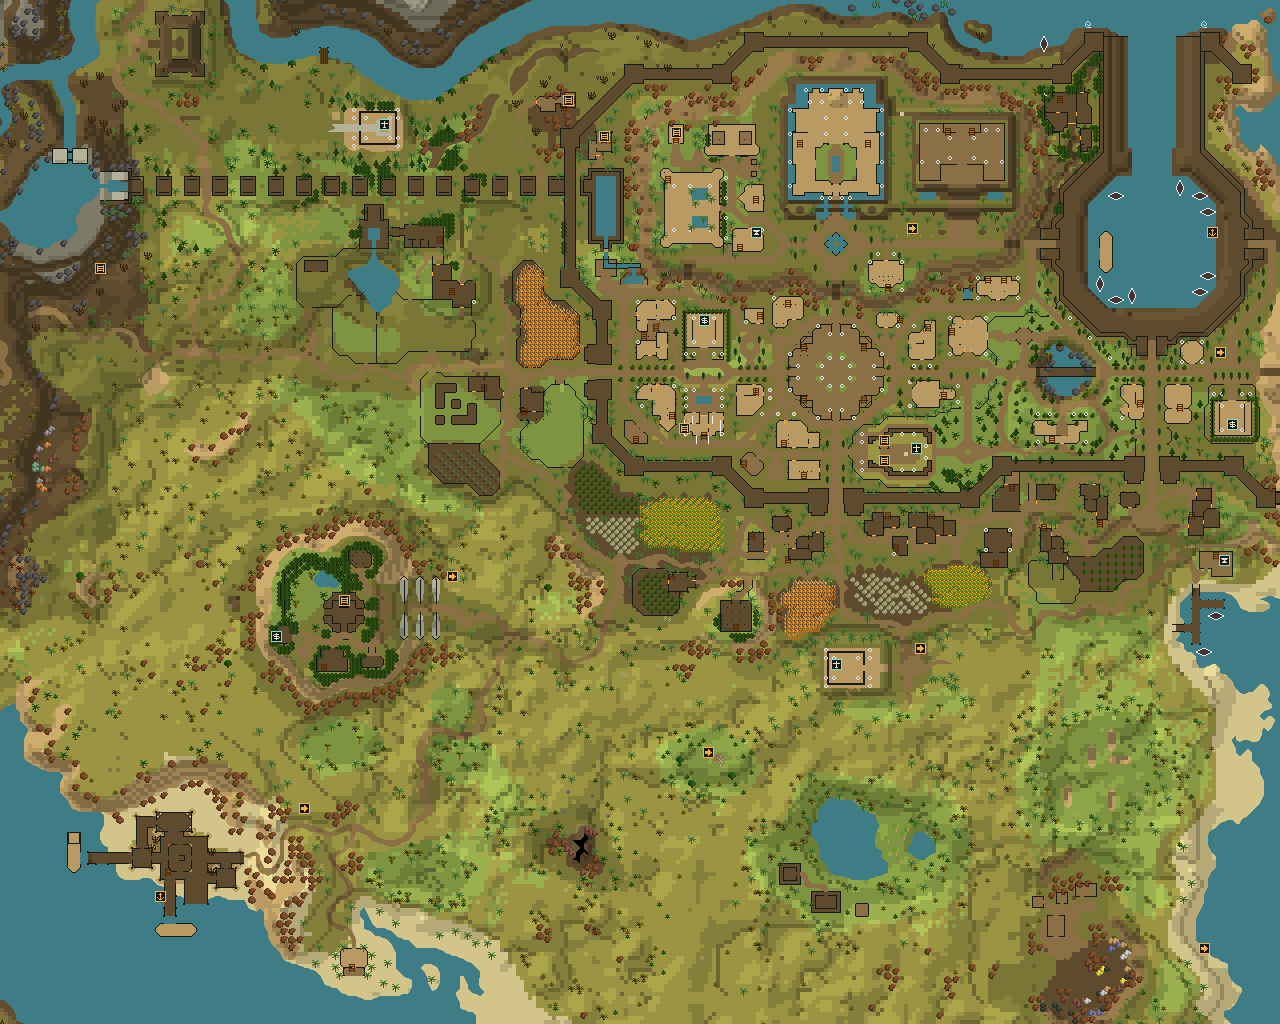
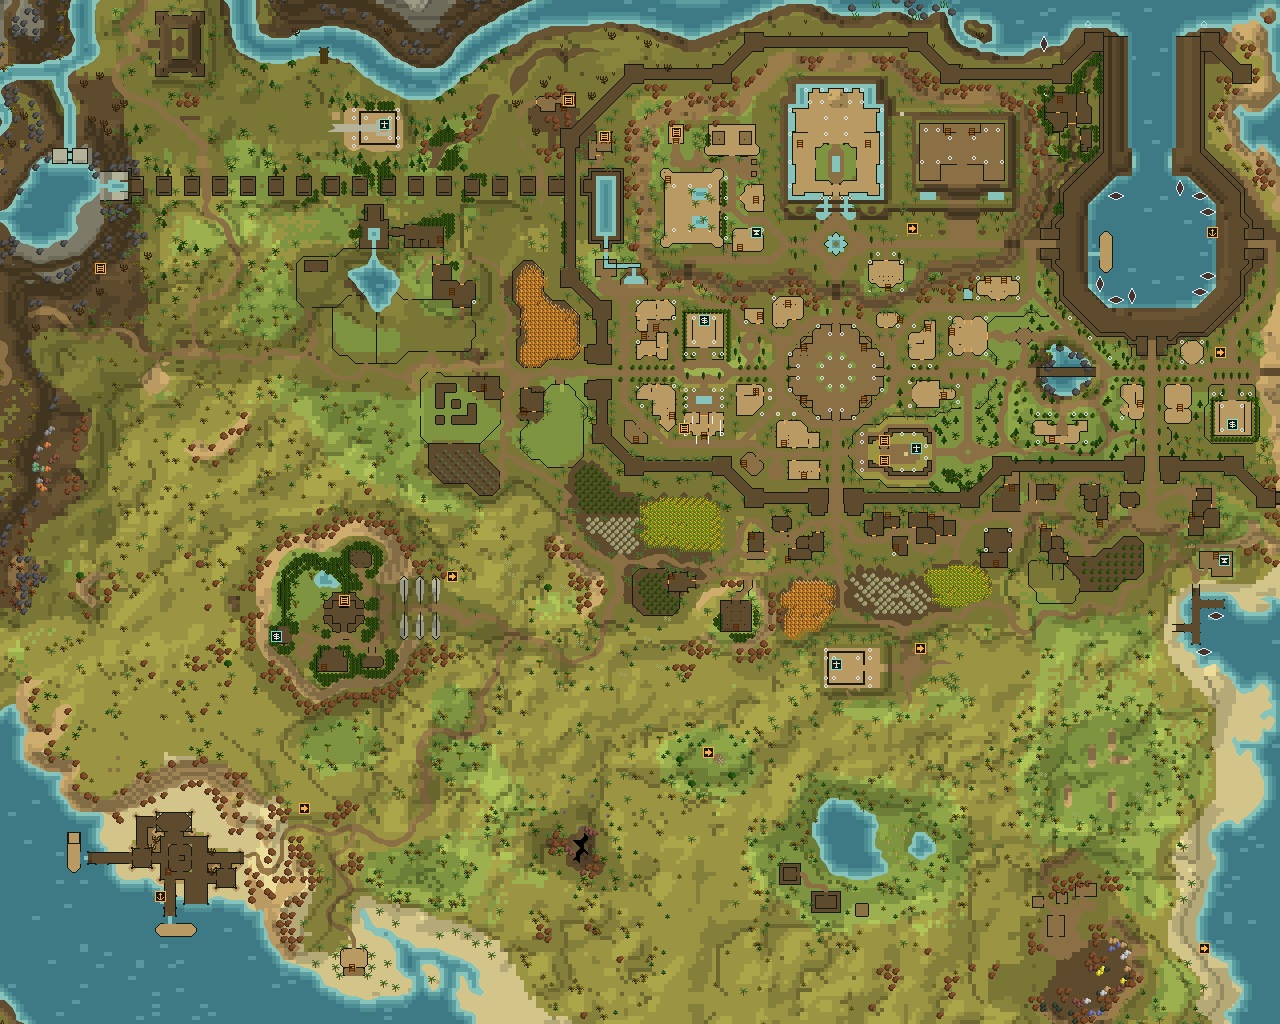
Band tactical water by distance to the shore
Terrain can now report RuneLite's overlay colour for any loaded tile
(the fork's overlay colour code moved verbatim into a method, so
standard stays byte-identical to runelite). The tactical style uses it
to draw a foam line, two shallow bands and open water with sparse wave
dashes.

diff --git a/src/main/java/mapstyle/StyledMapImageDumper.java b/src/main/java/mapstyle/StyledMapImageDumper.java
@@ -162,7 +162,7 @@ public class StyledMapImageDumper
 	{
 		this.store = store;
 		this.regionLoader = regionLoader;
-		this.terrain = new Terrain(regionLoader); // map-style
+		this.terrain = new Terrain(regionLoader, id -> overlayRgb(findOverlay(id))); // map-style
 		this.areas = new AreaManager(store);
 		this.sprites = new SpriteManager(store);
 		this.fonts = new FontManager(store);
@@ -498,41 +498,7 @@ public class StyledMapImageDumper
 									rotation = r.getOverlayRotation(z, convert(xi), convert(yi));
 
 									OverlayDefinition overlayDefinition = findOverlay(overlayId - 1);
-									int overlayTexture = overlayDefinition.getTexture();
-									int hsl;
-
-									if (overlayTexture >= 0)
-									{
-										hsl = rsTextureProvider.getAverageTextureRGB(overlayTexture);
-										//Repack it into full hsl
-										hsl = packHslFull(JagexColor.unpackHue((short) hsl) * 4, JagexColor.unpackSaturation((short) hsl) * 32, JagexColor.unpackLuminance((short) hsl) * 2);
-									}
-									else if (overlayDefinition.getRgbColor() == 0xFF_00FF)
-									{
-										hsl = -2;
-									}
-									else
-									{
-										// randomness added here
-										//Overlay Hsl
-										hsl = packHslFull(overlayDefinition.getHue(), overlayDefinition.getSaturation(), overlayDefinition.getLightness());
-									}
-
-									if (hsl != -2)
-									{
-										hsl = adjustHSLListness0(hsl);
-										overlayRgb = JagexColor.getRGBFull(hsl);
-									}
-
-									//Water, some cliffs, some buildings
-									if (overlayDefinition.getSecondaryRgbColor() != -1)
-									{
-										int hue = overlayDefinition.getOtherHue();
-										int sat = overlayDefinition.getOtherSaturation();
-										int olight = overlayDefinition.getOtherLightness();
-										hsl = packHslFull(hue, sat, olight);
-										overlayRgb = JagexColor.getRGBFull(hsl);
-									}
+									overlayRgb = overlayRgb(overlayDefinition); // map-style: extracted, unchanged
 
 									// map-style
 									overlayRgb = style.overlay(overlayRgb, overlayDefinition,
@@ -601,6 +567,50 @@ public class StyledMapImageDumper
 				}
 			}
 		}
+	}
+
+	// map-style: the overlay colour computation from drawMap(), moved here
+	// verbatim so Terrain can answer it for neighbouring tiles.
+	private int overlayRgb(OverlayDefinition overlayDefinition)
+	{
+		int overlayRgb = 0;
+		int overlayTexture = overlayDefinition.getTexture();
+		int hsl;
+
+		if (overlayTexture >= 0)
+		{
+			hsl = rsTextureProvider.getAverageTextureRGB(overlayTexture);
+			//Repack it into full hsl
+			hsl = packHslFull(JagexColor.unpackHue((short) hsl) * 4, JagexColor.unpackSaturation((short) hsl) * 32, JagexColor.unpackLuminance((short) hsl) * 2);
+		}
+		else if (overlayDefinition.getRgbColor() == 0xFF_00FF)
+		{
+			hsl = -2;
+		}
+		else
+		{
+			// randomness added here
+			//Overlay Hsl
+			hsl = packHslFull(overlayDefinition.getHue(), overlayDefinition.getSaturation(), overlayDefinition.getLightness());
+		}
+
+		if (hsl != -2)
+		{
+			hsl = adjustHSLListness0(hsl);
+			overlayRgb = JagexColor.getRGBFull(hsl);
+		}
+
+		//Water, some cliffs, some buildings
+		if (overlayDefinition.getSecondaryRgbColor() != -1)
+		{
+			int hue = overlayDefinition.getOtherHue();
+			int sat = overlayDefinition.getOtherSaturation();
+			int olight = overlayDefinition.getOtherLightness();
+			hsl = packHslFull(hue, sat, olight);
+			overlayRgb = JagexColor.getRGBFull(hsl);
+		}
+
+		return overlayRgb;
 	}
 
 	private void setPixels(int[][] pixels, int x, int y, int value)

diff --git a/src/main/java/mapstyle/TacticalStyle.java b/src/main/java/mapstyle/TacticalStyle.java
@@ -15,7 +15,8 @@ import net.runelite.cache.definitions.UnderlayDefinition;
  * Elevation is drawn as terraces: every {@link #TERRACE} height units is
  * one step, and tiles at the foot of a step (the step is to their
  * north or west) get a dark cliff line. A three-level hillshade adds the
- * slope within a terrace.
+ * slope within a terrace. Water is banded by distance to land, with a foam
+ * line along every shore.
  */
 final class TacticalStyle implements MapStyle
 {
@@ -32,7 +33,14 @@ final class TacticalStyle implements MapStyle
 	private static final int DIRT = 0x8A7044;
 	private static final int DIRT_DARK = 0x5E4B2E;
 	private static final int ROCK = 0x7D7B68;
-	private static final int WATER = 0x3F7D86;
+	// Water by distance to land: foam line, two shallow bands, open water.
+	private static final int FOAM = 0x86C4BB;
+	private static final int SHALLOW = 0x5D9EA0;
+	private static final int MID = 0x4B8D93;
+	private static final int DEEP = 0x3D7A85;
+	private static final int WAVE = 0x5A97A0;
+	/** How far (tiles) to look for land; beyond it a tile is open water. */
+	private static final int SHORE_REACH = 4;
 	private static final int ROAD = 0xB5B29A;
 	private static final int PATH = 0xB89A62;
 
@@ -57,7 +65,7 @@ final class TacticalStyle implements MapStyle
 		}
 		if (Styles.isWater(rgb))
 		{
-			return WATER;
+			return water(x, y, z, terrain);
 		}
 		return relief(surface(rgb), x, y, z, terrain);
 	}
@@ -73,6 +81,48 @@ final class TacticalStyle implements MapStyle
 	{
 		TacticalIcons.draw(image, area, cx, cy);
 		return true;
+	}
+
+	/**
+	 * Water banded by squared distance to the nearest land tile: a foam
+	 * line on the first ring, shallows, then open water with sparse
+	 * two-tile wave dashes.
+	 */
+	private static int water(int x, int y, int z, Terrain terrain)
+	{
+		int nearest = Integer.MAX_VALUE;
+		for (int dx = -SHORE_REACH; dx <= SHORE_REACH; dx++)
+		{
+			for (int dy = -SHORE_REACH; dy <= SHORE_REACH; dy++)
+			{
+				int d2 = dx * dx + dy * dy;
+				if (d2 < nearest && isLand(terrain.overlay(x + dx, y + dy, z)))
+				{
+					nearest = d2;
+				}
+			}
+		}
+		if (nearest <= 2)
+		{
+			return FOAM;
+		}
+		if (nearest <= 5)
+		{
+			return SHALLOW;
+		}
+		if (nearest <= 10)
+		{
+			return MID;
+		}
+		// Dashes two tiles long; the hash keeps them sparse and stable.
+		int h = (x >> 1) * 73856093 ^ y * 19349663;
+		return Math.floorMod(h, 29) == 0 ? WAVE : DEEP;
+	}
+
+	/** Land is any loaded tile without a water overlay; unloaded tiles count as sea. */
+	private static boolean isLand(int overlayRgb)
+	{
+		return overlayRgb >= 0 && (overlayRgb == 0 || !Styles.isWater(overlayRgb));
 	}
 
 	/**

diff --git a/src/main/java/mapstyle/Terrain.java b/src/main/java/mapstyle/Terrain.java
@@ -1,23 +1,46 @@
 package mapstyle;
 
+import java.util.HashMap;
+import java.util.Map;
+import java.util.function.IntUnaryOperator;
 import net.runelite.cache.region.Region;
 import net.runelite.cache.region.RegionLoader;
 
 /**
- * Elevation of the loaded map squares, for styles that need more than the
- * tile being drawn (slope, aspect, relief). Heights are RuneLite's raw
- * tile-corner heights: 0 at sea level, more negative the higher the
- * ground, 128 units to a tile.
+ * The loaded map squares as seen from a style that needs more than the tile
+ * being drawn: elevation (slope, aspect, relief) and neighbouring overlays
+ * (shorelines). Heights are RuneLite's raw tile-corner heights: 0 at sea
+ * level, more negative the higher the ground, 128 units to a tile.
  */
 public final class Terrain
 {
 	public static final int TILE = 128;
 
 	private final RegionLoader regions;
+	private final IntUnaryOperator overlayColour;
+	private final Map<Integer, Integer> overlayCache = new HashMap<>();
 
-	Terrain(RegionLoader regions)
+	/** {@code overlayColour} maps an overlay definition id to RuneLite's colour for it. */
+	Terrain(RegionLoader regions, IntUnaryOperator overlayColour)
 	{
 		this.regions = regions;
+		this.overlayColour = overlayColour;
+	}
+
+	/**
+	 * RuneLite's colour for the overlay at (x, y, z) before any style is
+	 * applied: 0 when the tile has no visible overlay, -1 outside the loaded
+	 * squares.
+	 */
+	public int overlay(int x, int y, int z)
+	{
+		Region r = regions.findRegionForWorldCoordinates(x, y);
+		if (r == null)
+		{
+			return -1;
+		}
+		int id = r.getOverlayId(z, x & (Region.X - 1), y & (Region.Y - 1));
+		return id == 0 ? 0 : overlayCache.computeIfAbsent(id - 1, overlayColour::applyAsInt);
 	}
 
 	/** Height at world tile (x, y, z), or {@code fallback} outside the loaded squares. */

diff --git a/README.md b/README.md
@@ -156,9 +156,11 @@ something is drawn needs the fork**. That is the extension point: one fork of
 `MapImageDumper` with a `MapStyle` hook at each colour decision, plus one
 for map icons. Each colour hook
 gets the colour RuneLite would draw plus the decoded data behind it
-(definition, world x/y/plane, and a `Terrain` height lookup over every
-loaded square). The fork is small: 51 lines added, 71 removed, and the
-removals are the old `main()`. Its default behaviour
+(definition, world x/y/plane, and a `Terrain` view of every loaded square:
+heights, plus RuneLite's overlay colour for any tile). The fork's diff
+against upstream is +95/−105: the old `main()` is gone, the hooks are in,
+and the overlay-colour code moved verbatim into its own method so `Terrain`
+can reuse it. Its default behaviour
 is verified identical, so every visual difference is attributable to a
 hook. `muted` exercises all three colour hooks (underlay, overlay,
 wall/door). It is a proof of control, not a proposed style.
@@ -186,7 +188,12 @@ the hooks:
 - **Elevation:** 192-unit (1.5-tile) terraces, with a dark cliff line on
   tiles whose north or west neighbour is a step higher, plus a three-level
   quantised hillshade.
-- **Surfaces:** flat teal water, and roads and paths as light stone or tan.
+- **Water:** banded by squared distance to the nearest land tile, using
+  `Terrain.overlay` to see neighbouring tiles up to 4 tiles away. The bands
+  are a pale foam line (≤ 1.4 tiles), two shallow bands, then deep teal with
+  sparse two-tile wave dashes. Rivers come out as foam banks around a
+  shallow channel.
+- **Surfaces:** roads and paths as light stone or tan.
 - **Walls and doors:** walls in the planner's `--ink` colour, doors in its
   `--orange`.
 - **Icons** (`TacticalIcons.java`, through the `icon` hook): only icons that
@@ -206,9 +213,8 @@ Not done yet: RuneLite's object sprites still use RuneScape art: trees and
 rocks (a real tactics look wants our own forest and mountain glyphs) and
 in-building ladders and stairs, which matter for routing and need an
 object-sprite hook. Quest starts may deserve a quieter third badge kind.
-Coastlines have no outline (needs a "neighbour is water" lookup next to
-`Terrain`), and the palette has only been checked by eye against the
-planner.
+Rocky coasts have foam but no land-side edge, and the palette has only
+been checked by eye against the planner.
 
 ## Recommended next step: terrain and relief
 
